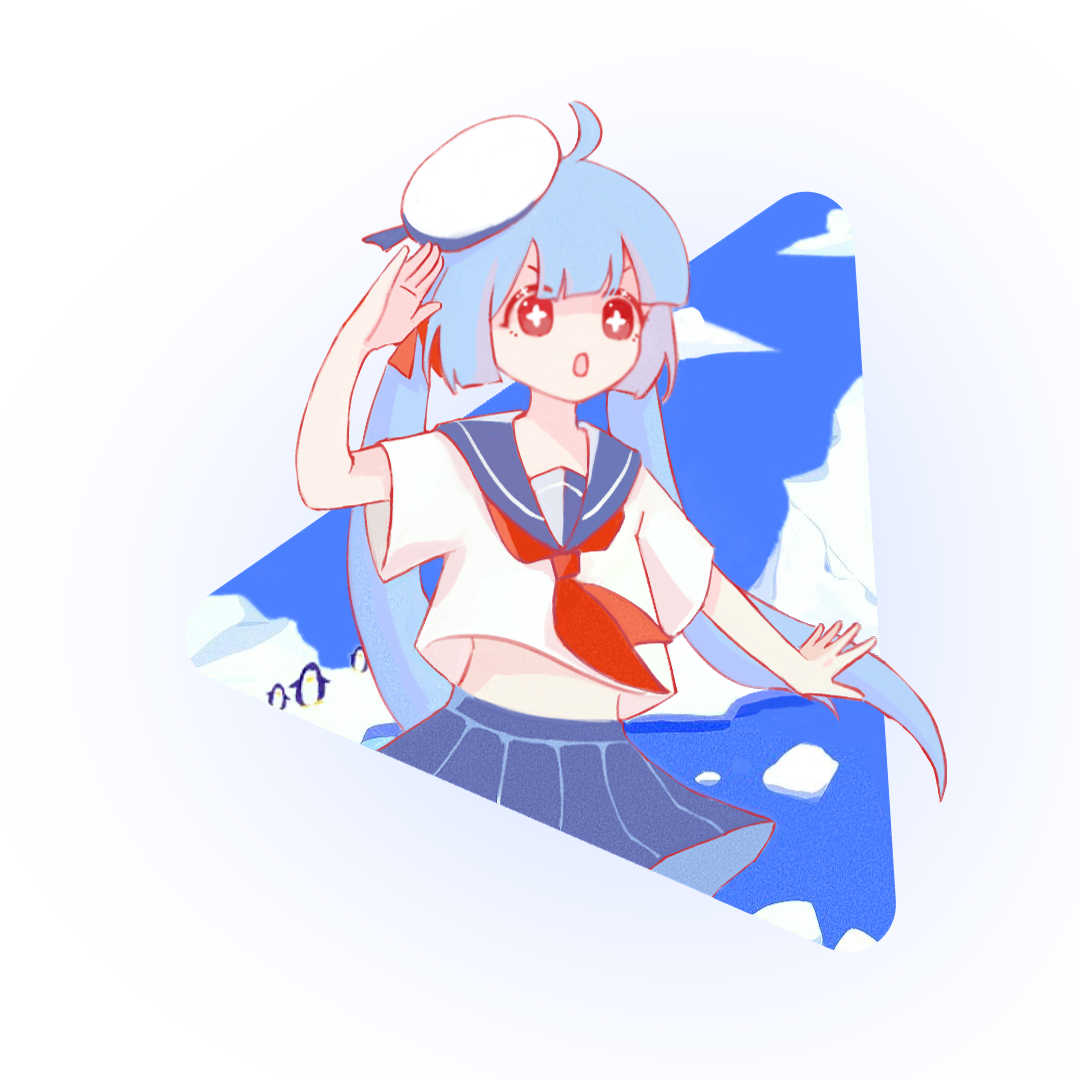
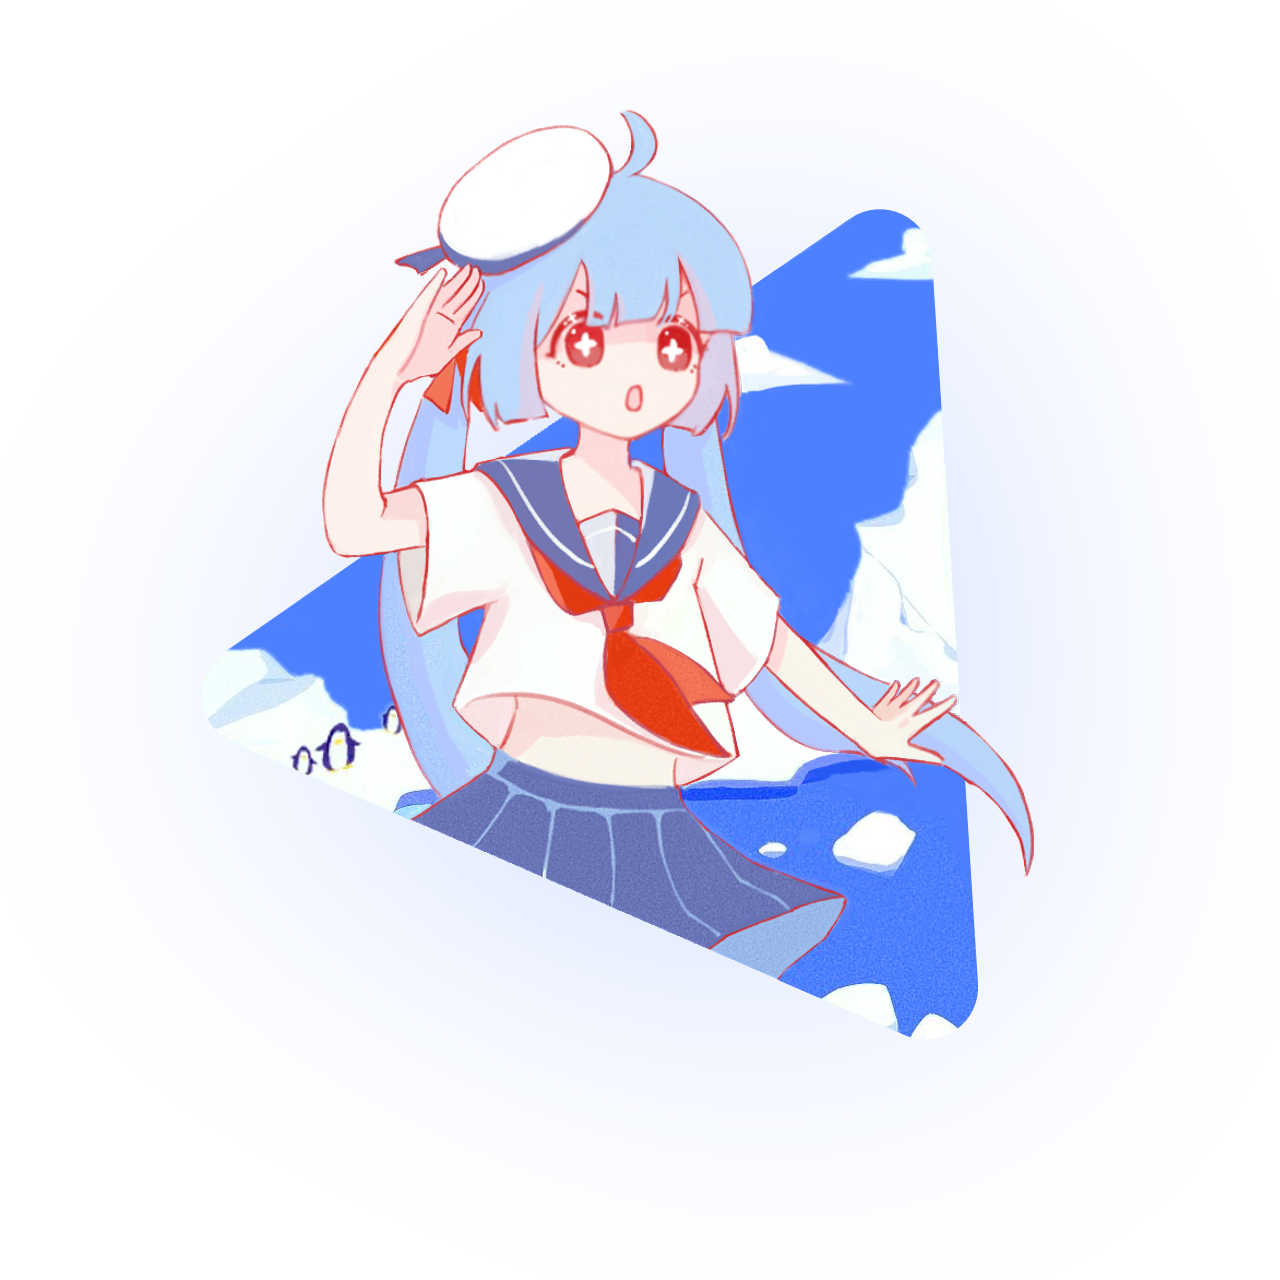
📝 doc: README.md

Changed region(s): [[0.1528, 0.0917, 0.8861, 0.8861], [0.3972, 0.1222, 0.4278, 0.1528]]

diff --git a/README.md b/README.md
@@ -1,1 +1,11 @@
-# .github
+<p align="center">
+ <a href="https://github.com/akirarika"><img src="./image.png" width="320px" /></a>
+</p>
+
+<h2 align="center">✨ Southern Aurora</h2>
+
+<p align="center">Here's a Collection of All the Fun Creations from My Friends and Me</p>
+
+<p align="center">
+    <a href="https://github.com/akirarika">About Me</a> | <a href="https://github.com/orgs/southern-aurora/people">About My Friends</a>
+</p>
